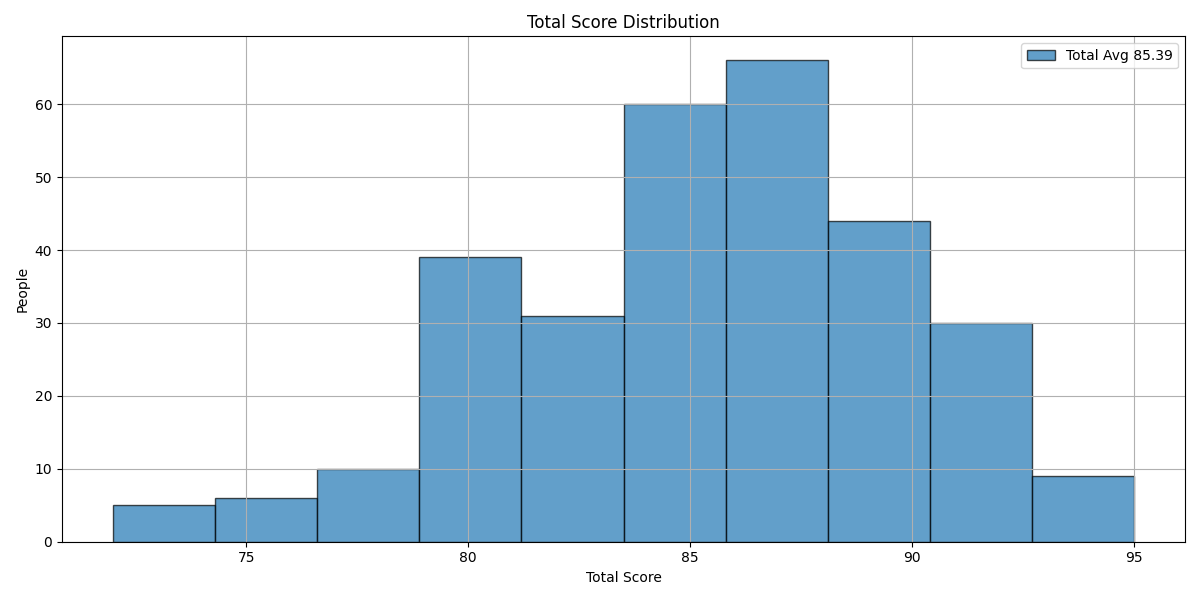
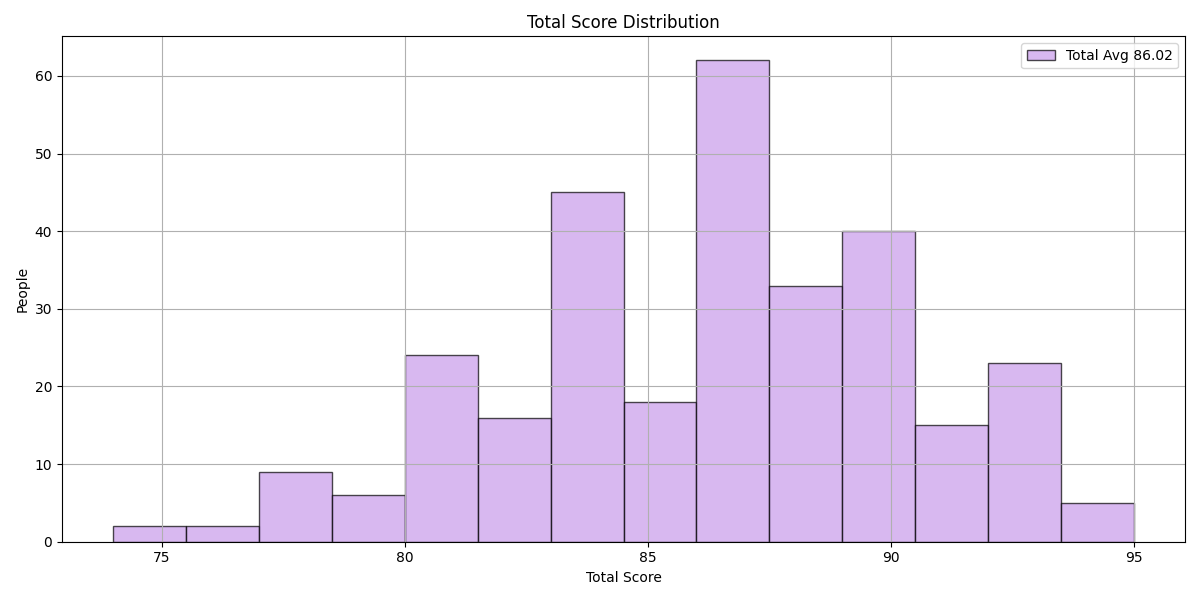
調整 MainScene 中設定按鈕的位置，新增音效效果；更新 GPA 和總分的直方圖顏色及數量，並修正 GPA 排行數據

diff --git a/UI/main_scene.py b/UI/main_scene.py
@@ -47,7 +47,7 @@ class MainScene(BaseScene):
 
         self.set_icon = pygame.image.load("resource/image/set.png").convert_alpha()
         self.set_icon = pygame.transform.smoothscale(self.set_icon, (80, 80))
-        self.set_rect = self.set_icon.get_rect(topleft=(20, 20))
+        self.set_rect = self.set_icon.get_rect(topleft=(20, 700))
         self.set_hover = False
 
 
@@ -60,6 +60,8 @@ class MainScene(BaseScene):
         # 設定按鈕 hover 與點擊
         if self.set_rect.collidepoint(mouse_pos):
             self.set_hover = True
+            if not self.audio.is_sound_playing("resource/music/sound_effect/menu_hover.MP3"):
+                self.audio.play_sound("resource/music/sound_effect/menu_hover.MP3")
             if mouse_pressed[0]:
                 return "SETTING"
         else:
@@ -181,8 +183,7 @@ class MainScene(BaseScene):
         self.next_week_button.draw(self.screen)
         self.draw_player_stats()
 
-
-
+        # 畫設定按鈕
         if self.set_hover:
             scaled = pygame.transform.scale(self.set_icon, (96, 96))
             rect = scaled.get_rect(center=self.set_rect.center)

diff --git a/simulation.py b/simulation.py
@@ -135,7 +135,7 @@ class Simulation:
     def plot_total(self, highlight: float | None = None) -> Path:
         fig, ax = plt.subplots(figsize=(12, 6))
         counts, edges, _ = ax.hist(
-            self.total_scores, bins=10, alpha=0.7, edgecolor='black',
+            self.total_scores, bins=14, alpha=0.7, edgecolor='black', color="#C89AEB",
             label=f"Total Avg {statistics.mean(self.total_scores):.2f}"
         )
 
@@ -199,7 +199,7 @@ class Simulation:
         """
         fig, ax = plt.subplots(figsize=(12, 6))
         counts, edges, _ = ax.hist(
-            self.gpa, bins=bins, alpha=0.7, edgecolor="black",
+            self.gpa, bins=bins, alpha=0.7, edgecolor="black",color ="#A1FAFF",
             label=f"GPA Avg {statistics.mean(self.gpa):.2f}"
         )
 
